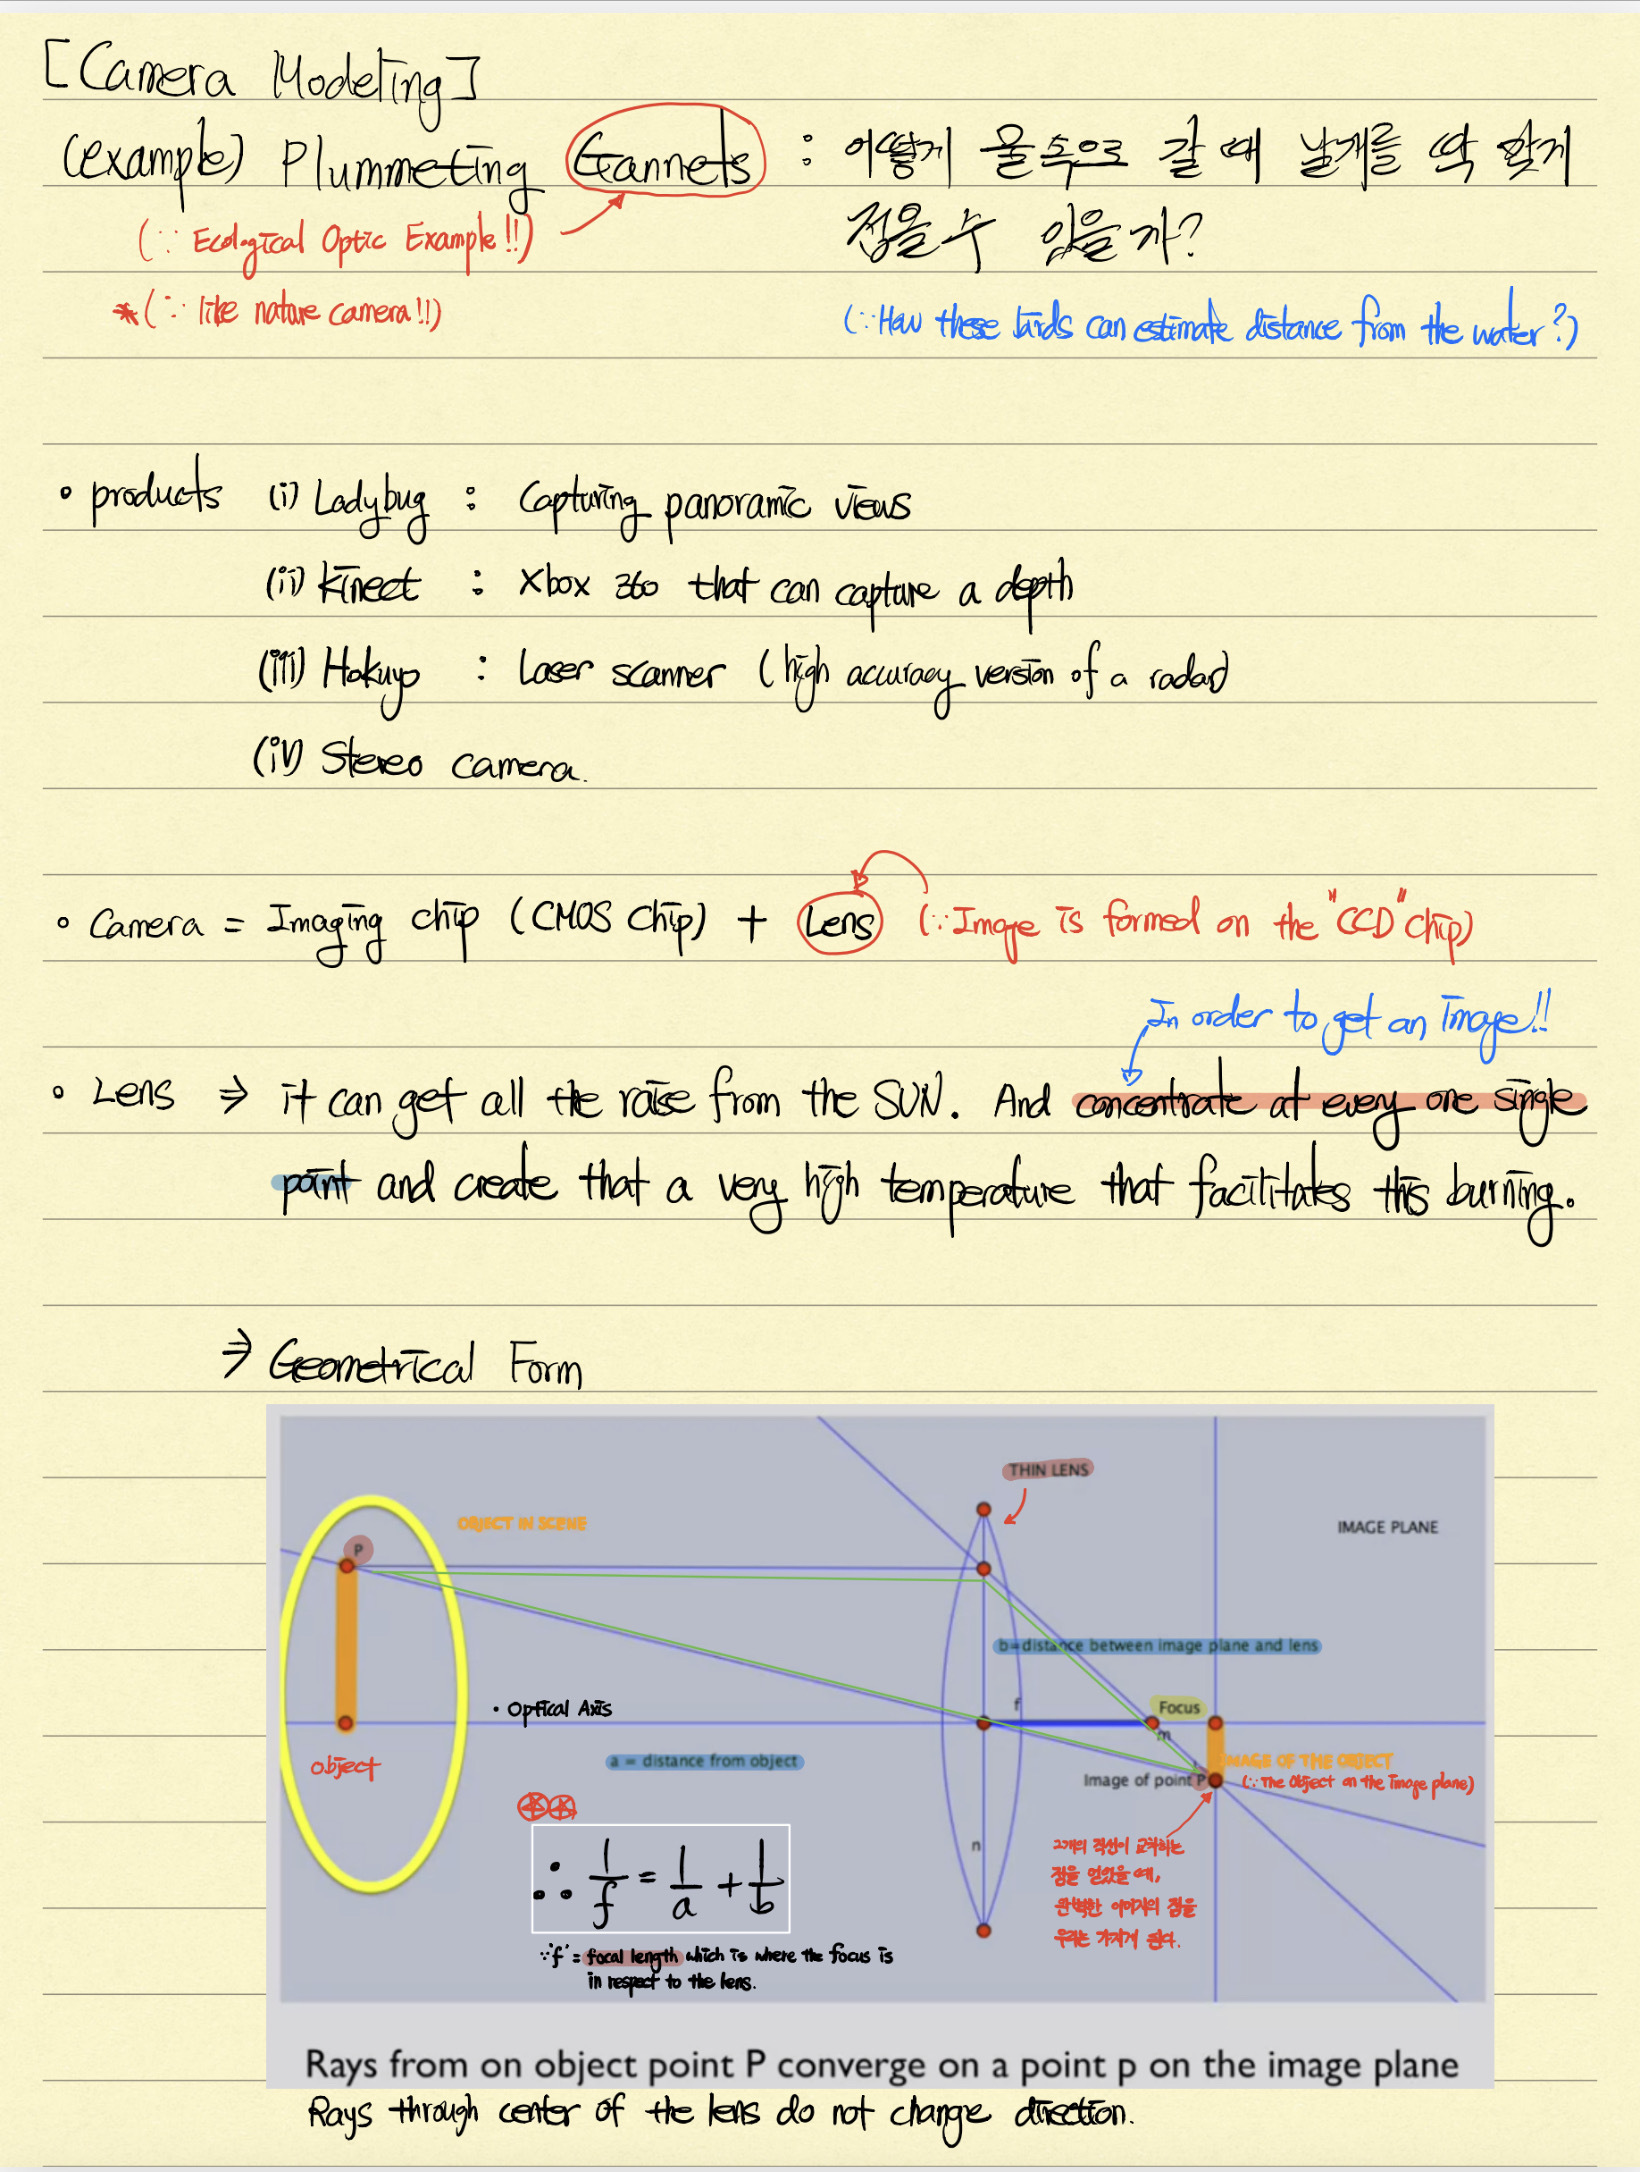
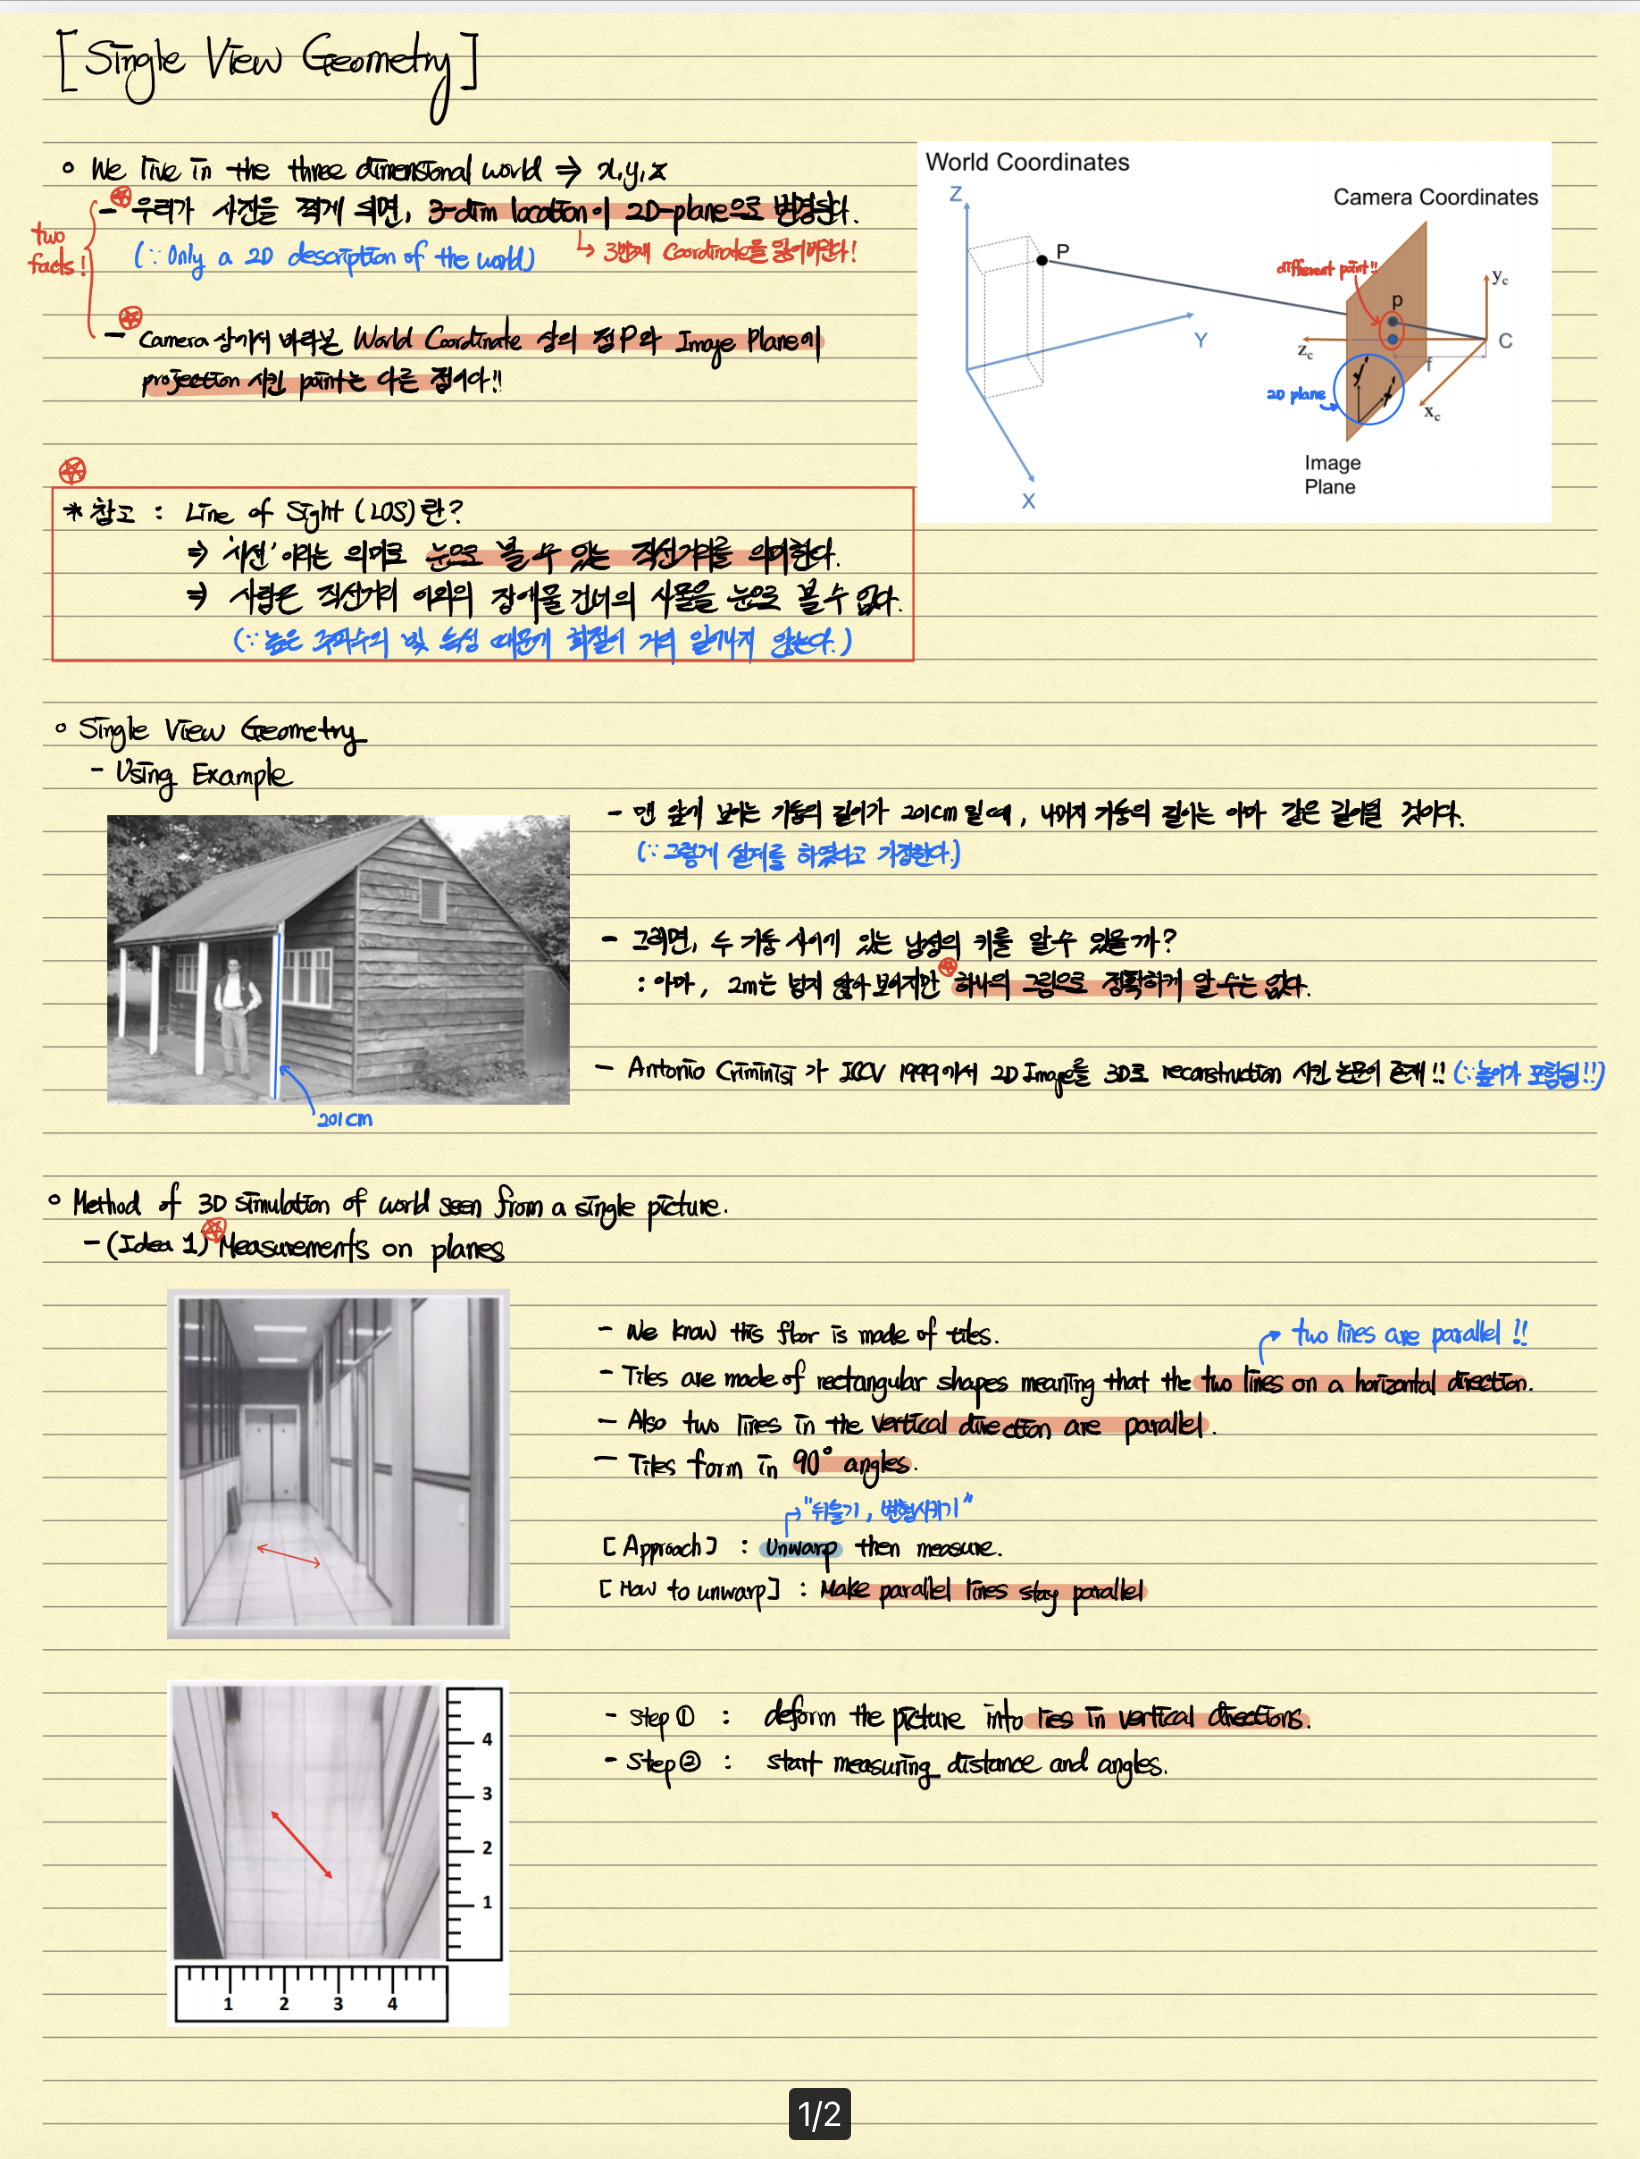
Perception

diff --git a/_posts/2021-02-06-perception-week1-1.md b/_posts/2021-02-06-perception-week1-1.md
@@ -4,7 +4,7 @@ title: Camera Modeling
 date: 2021-02-06 16:04:37
 ---
 
-<center><img src="https://github.com/SungJaeShin/SungJaeShin.github.io/blob/master/imgs/slam/camera_geometry/chapter1-1-1.png?raw=true" width="100%" height="100%"></center> <br>
+<center><img src="https://github.com/SungJaeShin/SungJaeShin.github.io/blob/master/imgs/slam/camera_geometry/chapter1-1-1.jpg?raw=true" width="100%" height="100%"></center> <br>
 
 <center><img src="https://github.com/SungJaeShin/SungJaeShin.github.io/blob/master/imgs/slam/camera_geometry/chapter1-1-2.png?raw=true" width="100%" height="100%"></center> <br>
 
